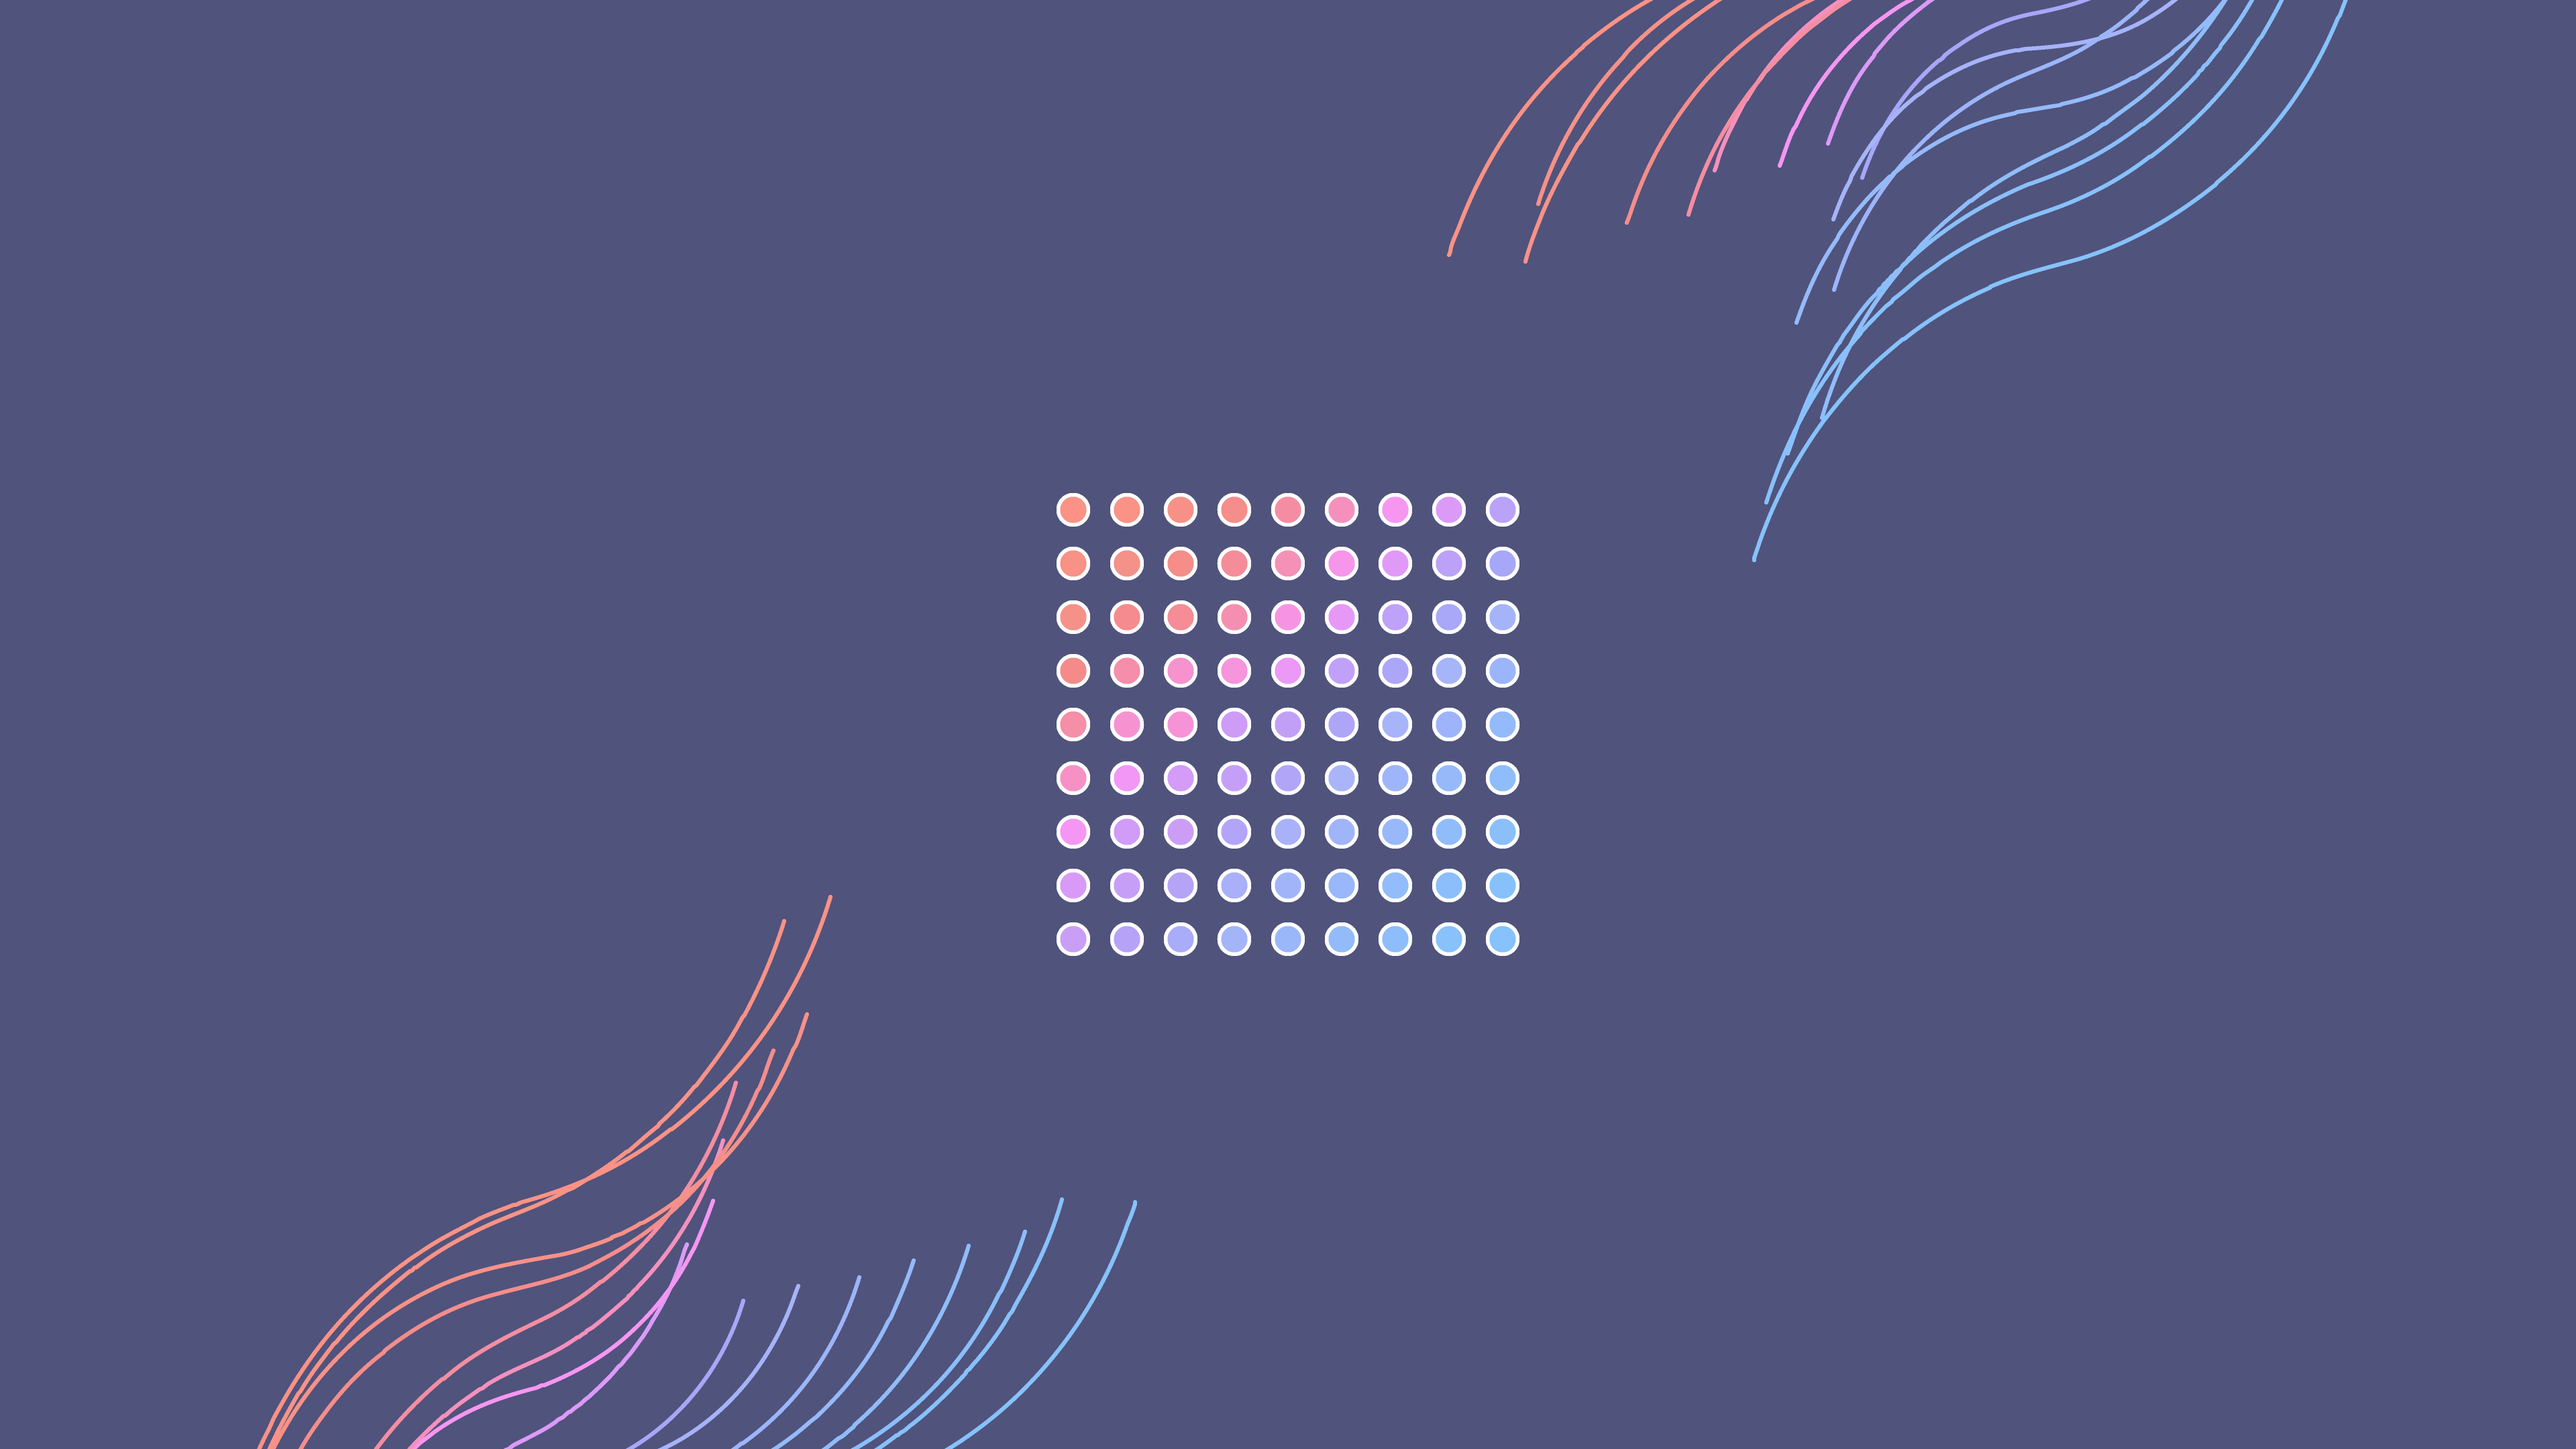
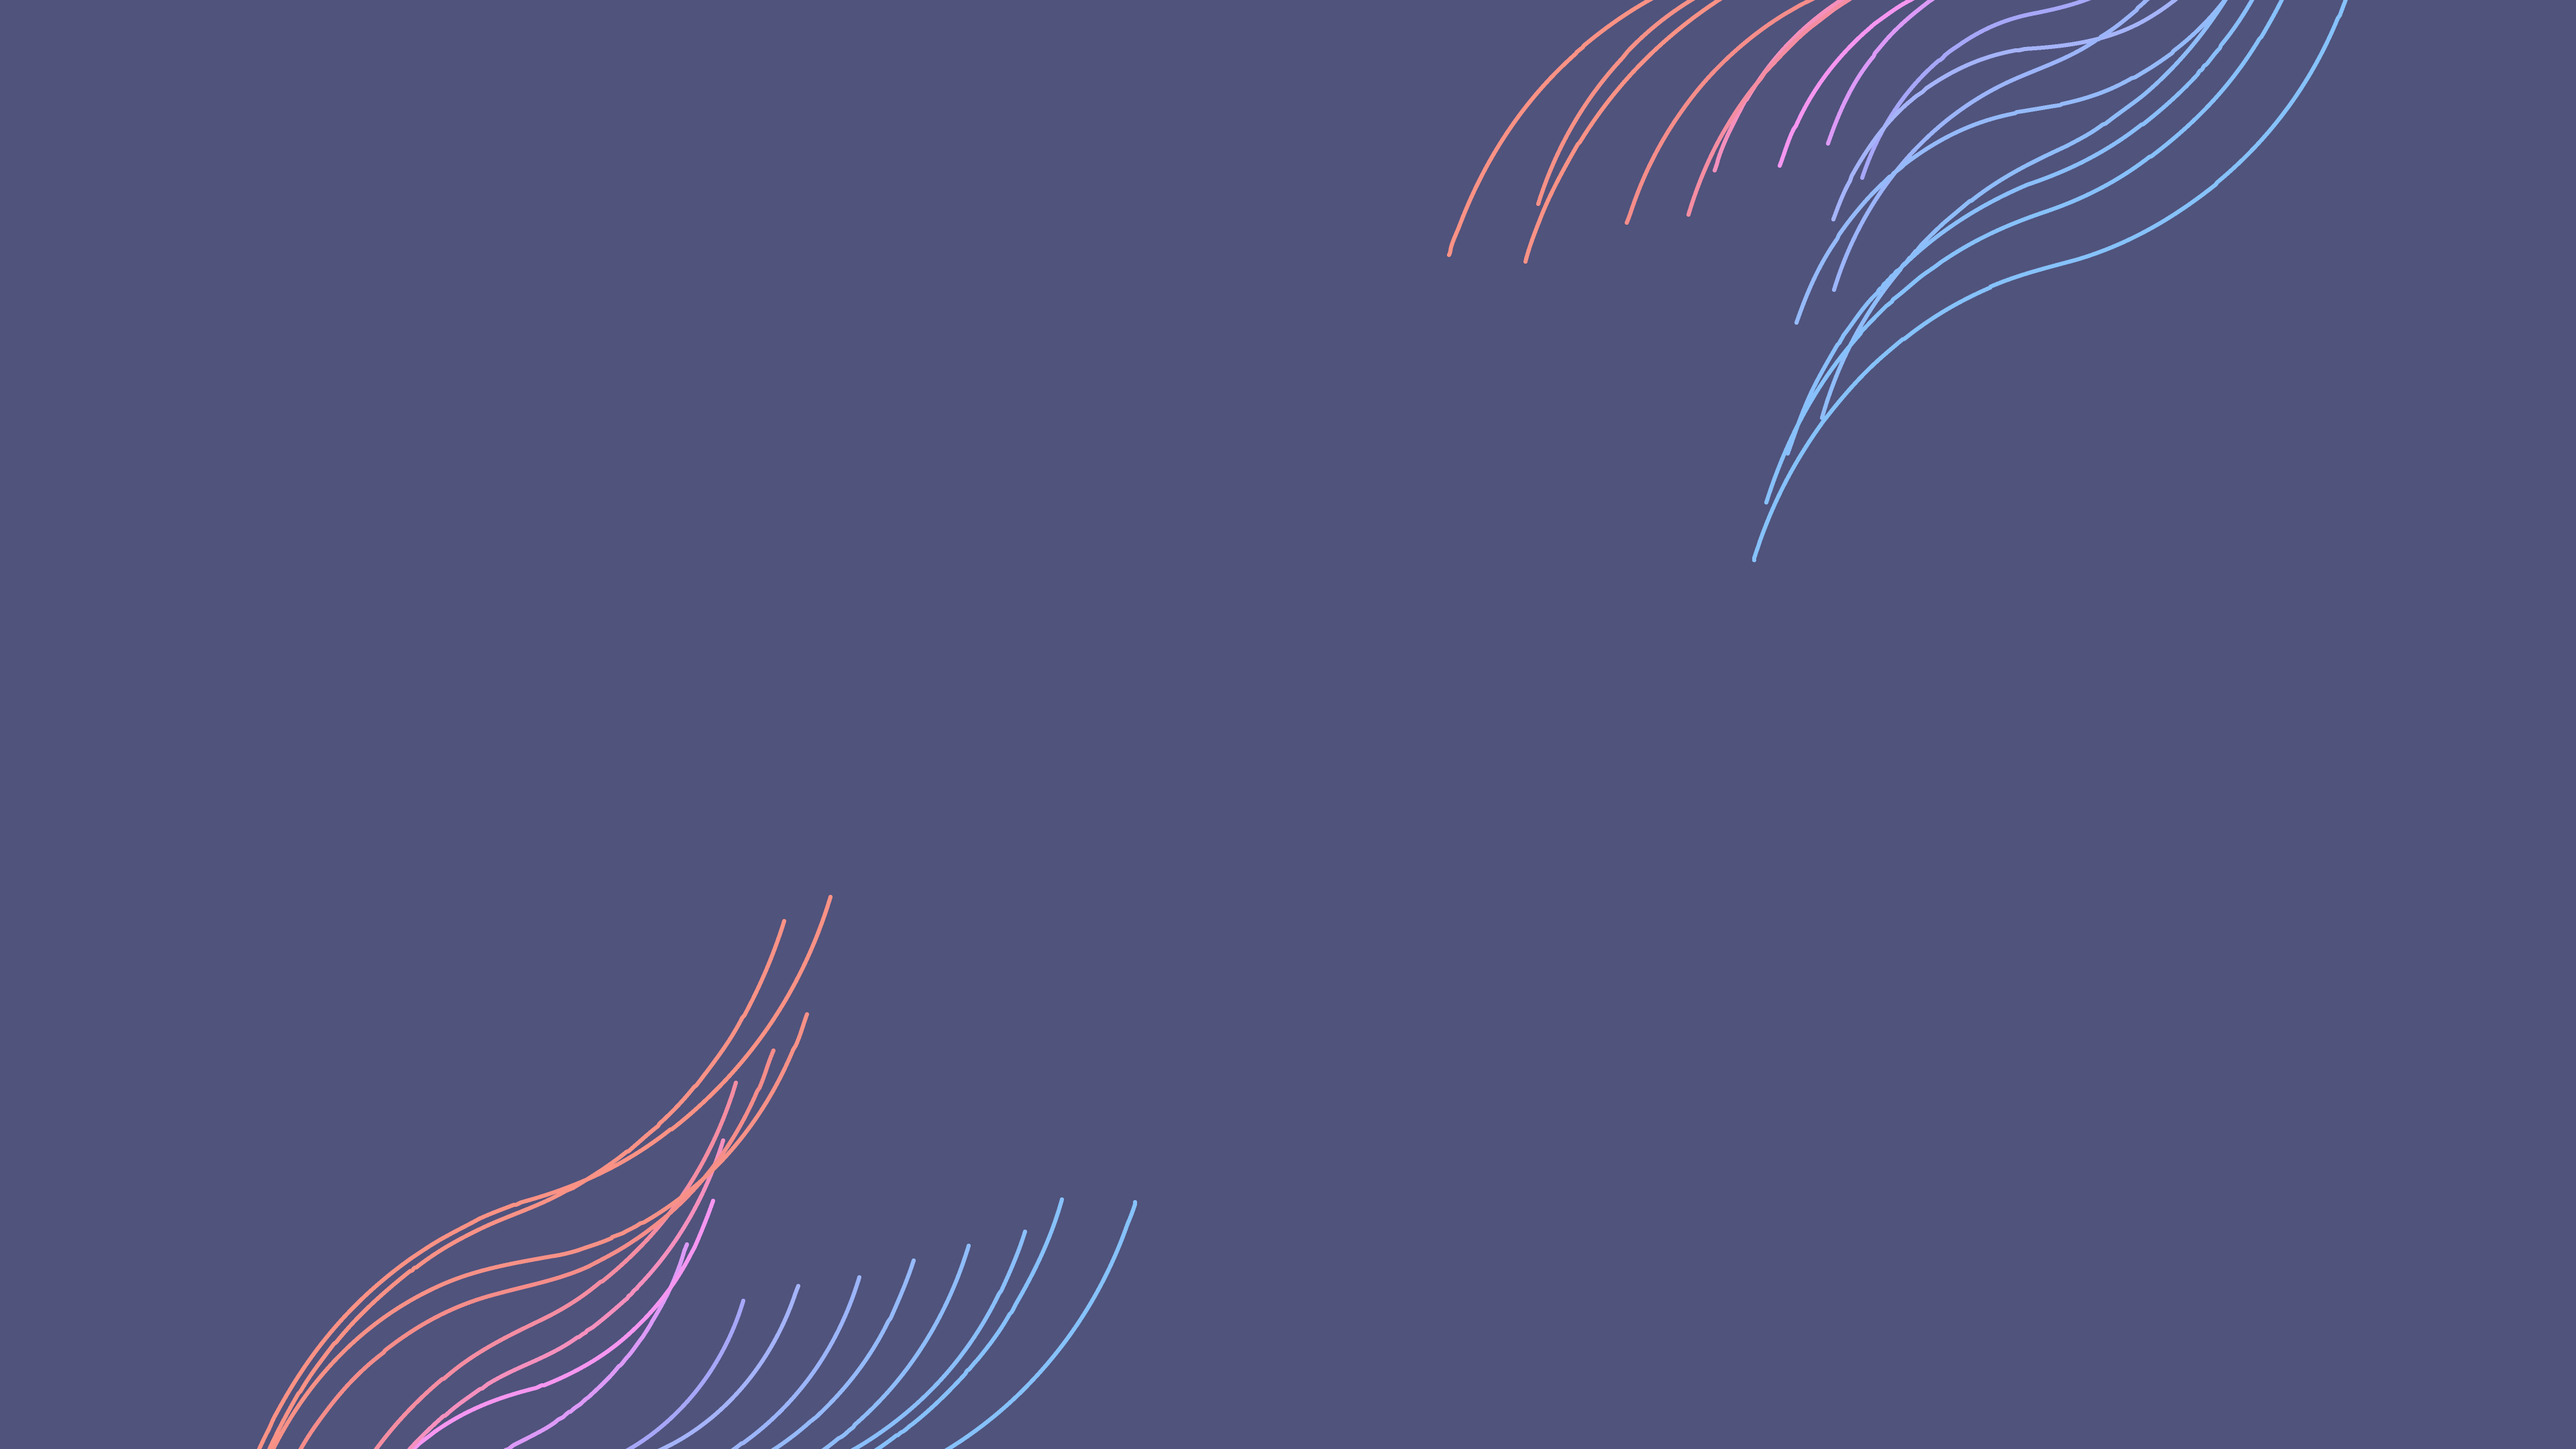
Improve login page in little ways
Make CSS less weird; make CSS responsive for narrow viewports; make page
scroll for viewports not tall enough to fit the whole thing; remove the
grid of circles in the middle of the background image; replace password
visibility icons with .svgs for higher resolution on HiDPI displays or
when zoomed in.

Changed region(s): [[0.4062, 0.3412, 0.5938, 0.6824]]

diff --git a/theme/login/resources/css/login.css b/theme/login/resources/css/login.css
@@ -1,184 +1,187 @@
-body, html {
-  display: flex;
-  flex-direction: column;
-  flex: 1;
-  overflow: hidden;
-  min-height: 0;
-  font-size: 14px;
-  color:rgba(0,0,0,.87);
-  margin:0;
-  height: 100%;
-}
-body {
-  margin: 0;
-}
-.login-content {
-  background-size:cover;
-  background-position:center;
-  min-height: 100%;
-  min-width: 320px;
-  display:flex;
-  justify-content:center;
-  flex-direction:column;
+body,
+html {
+	font-size: 14px;
+	color: rgba(0, 0, 0, .87);
+	margin: 0;
 }
 .login-content .box {
-  width: 448px;
-  border-radius: 8px;
-  background-color: #ffffff;
-  box-shadow: 0 2px 2px 0 rgba(0, 0, 0, 0.24), 0 0 2px 0 rgba(0, 0, 0, 0.12);
-  margin: auto;
-}
-.login-content .box .box-container {
-  width:100%;
-  padding-left: 32px;
+	background-color: #ffffff;
+	margin: auto;
+	padding: 32px 32px
 }
 .login-content .box .logo {
-  display: block;
-  margin-left: auto;
-  margin-right: auto;
-  margin-top: 30px;
-  width: 6rem;
+	display: block;
+	margin-left: auto;
+	margin-right: auto;
+	width: 6rem;
 }
 .login-content .box .application-name {
-  width: 270px;
-  font-family: Muli;
-  font-size: 24px;
-  font-weight: 600;
-  font-style: normal;
-  font-stretch: normal;
-  line-height: 0.83;
-  letter-spacing: -0.4px;
-  text-align: left;
-  color: #0055B8;
-  margin-left: 32px;
-  margin-top: 40px;
+	width: calc(100vw - 64px);
+	font-family: Muli;
+	font-size: 24px;
+	font-weight: 600;
+	font-style: normal;
+	font-stretch: normal;
+	line-height: 0.83;
+	letter-spacing: -0.4px;
+	text-align: left;
+	color: #0055B8;
+	margin-top: 40px;
 }
 .login-content .box .form {
-  margin-left: 32px;
-  margin-top: 55px;
-  margin-bottom: -55px;
+	margin-top: 55px;
 }
 .login-content .box .login-field {
-  width: 320px;
-  height: 24px;
-  font-family: Muli;
-  font-size: 14px;
-  font-weight: normal;
-  font-style: normal;
-  font-stretch: normal;
-  letter-spacing: -0.4px;
-  text-align: left;
-  color: #000000;
-  border: none;
-  border-bottom: 1px solid #ccc;
-  outline: none;
-  background-color: #fff;
+	width: calc(100vw - 64px);
+	height: 24px;
+	font-family: Muli;
+	font-size: 14px;
+	font-weight: normal;
+	font-style: normal;
+	font-stretch: normal;
+	letter-spacing: -0.4px;
+	text-align: left;
+	color: #000000;
+	border: none;
+	border-bottom: 1px solid #ccc;
+	outline: none;
+	background-color: #fff;
 }
-.login-content .box input[type="text"]:focus, .login-content .box input[type="password"]:focus {
-  border-bottom: 2px solid #0055B8;
+.login-content .box input[type="text"]:focus,
+.login-content .box input[type="password"]:focus {
+	border-bottom: 2px solid #0055B8;
+	margin-bottom: -1px;
 }
-.login-content .box input[type="text"]:-webkit-autofill, .login-content .box input[type="password"]:-webkit-autofill
-{
-  box-shadow: 0 0 0px 1000px white inset;
+.login-content .box input[type="text"]:-webkit-autofill,
+.login-content .box input[type="password"]:-webkit-autofill {
+	box-shadow: 0 0 0px 1000px white inset;
 }
-.login-content .box .submit{
-  width: 320px;
-  height: 36px;
-  border-radius: 2px;
-  background-color: #00754a;
-  font-family: Muli;
-  font-size: 14px;
-  font-weight: bold;
-  font-style: normal;
-  font-stretch: normal;
-  line-height: normal;
-  letter-spacing: normal;
-  text-align: center;
-  color: #ffffff;
-  border-style: none;
-  margin-top: 60px;
-  margin-bottom: 60px;
+.login-content .box .submit {
+	width: calc(100vw - 64px);
+	height: 36px;
+	border-radius: 2px;
+	background-color: #00754a;
+	font-family: Muli;
+	font-size: 14px;
+	font-weight: bold;
+	font-style: normal;
+	font-stretch: normal;
+	line-height: normal;
+	letter-spacing: normal;
+	text-align: center;
+	color: #ffffff;
+	border-style: none;
+	margin-top: 60px;
+	/*   margin-bottom: 60px; */
 }
 .login-content .box .visibility {
-  position: relative;
-  left: 296px;
-  top: 20px;
-  width: 24px;
-  height: 24px;
-  opacity: 0.54;
-  border: none;
+	position: relative;
+	left: calc(100vw - 88px);
+	top: 24px;
+	width: 24px;
+	height: 24px;
+	opacity: 0.54;
+	border: none;
 }
 .login-content .box .copyright {
-  text-align: center;
-  font-size: 14px;
-  opacity: .6;
-  color: white;
-  font-family: Muli;
-  position: relative;
-  top: 50px;
-  padding-right: 64px;
+	display: none
 }
 a {
-  color:white;
+	color: white;
 }
 .message-text {
-  width: 322px;
-  height: 60px;
-  opacity: 0.87;
-  font-family: Muli;
-  font-size: 14px;
-  font-weight: normal;
-  font-style: normal;
-  font-stretch: normal;
-  line-height: 1.3;
-  letter-spacing: -0.4px;
-  text-align: left;
-  color: #b8082a;
-  border: 0px;
-  position: relative;
-  top: 210px;
-  left: 64px;
-  display: inline-flex;
-  align-items: center;
+	width: calc(100vw - 64px);
+	opacity: 0.87;
+	font-family: Muli;
+	font-size: 14px;
+	font-weight: normal;
+	font-style: normal;
+	font-stretch: normal;
+	line-height: 1.3;
+	letter-spacing: -0.4px;
+	text-align: left;
+	color: #b8082a;
+	border: 0px;
+	position: relative;
+	top: 206px;
+	align-items: center;
 }
 .identity-providers {
-  width: 270px;
-  font-family: Muli;
-  font-size: 16px;
-  font-weight: 600;
-  font-style: normal;
-  font-stretch: normal;
-  line-height: 0.83;
-  letter-spacing: -0.4px;
-  text-align: left;
-  color: #0055B8;
-  margin-left: 32px;
-  margin-top: 20px;
-}
-
-.login-content .box .social-link-style {
-  width: 320px;
-  height: 36px;
-  border-radius: 2px;
-  background-color: var(--white);
-  font-family: Muli;
-  font-size: 14px;
-  font-weight: bold;
-  font-style: normal;
-  font-stretch: normal;
-  line-height: normal;
-  letter-spacing: normal;
-  text-align: center;
-  color: #00754a;
-  border-style: solid;
-  border-color: #00754a;
-  margin-top: 0px;
-  margin-left: 30px;
-  margin-bottom: 10px;
+	width: 270px;
+	font-family: Muli;
+	font-size: 16px;
+	font-weight: 600;
+	font-style: normal;
+	font-stretch: normal;
+	line-height: 0.83;
+	letter-spacing: -0.4px;
+	text-align: left;
+	color: #0055B8;
+	margin-left: 32px;
+	margin-top: 20px;
 }
 
 .login-content .box .para {
-  font-family: Muli;
-  font-size: 14px;
-  margin-left: 30px;
+	font-family: Muli;
+	font-size: 14px;
+	margin-left: 30px;
+}
+
+@media only screen and (min-width: 450px) {
+	body,
+	html {
+		display: flex;
+		flex-direction: column;
+		flex: 1;
+		overflow: hidden;
+		min-height: 100%;
+		margin: 0;
+	}
+	.login-content {
+		background-size: cover;
+		background-position: center;
+		width: 100vh;
+		min-width: 320px;
+		display: flex;
+		justify-content: center;
+		overflow: scroll;
+	}
+	.login-content .box {
+		width: 320px;
+		border-radius: 8px;
+		box-shadow: 0 2px 2px 0 rgba(0, 0, 0, 0.24), 0 0 2px 0 rgba(0, 0, 0, 0.12);
+		padding: 32px 64px;
+		margin-top: 20px;
+	}
+	.login-content .box .application-name {
+		width: 270px;
+	}
+	.login-content .box .form {
+		margin-top: 55px;
+	}
+	.login-content .box .login-field {
+		width: 320px;
+	}
+	.login-content .box .submit {
+		width: 320px;
+	}
+	.login-content .box .visibility {
+		left: 296px;
+	}
+	.login-content .box .copyright {
+		width: 320px;
+		text-align: center;
+		font-size: 14px;
+		opacity: .6;
+		color: white;
+		font-family: Muli;
+		position: relative;
+		margin-top: 0;
+		height: 0;
+		display: inline-block;
+		top: 64px;
+	}
+	.message-text {
+		width: 320px;
+	}
 }
